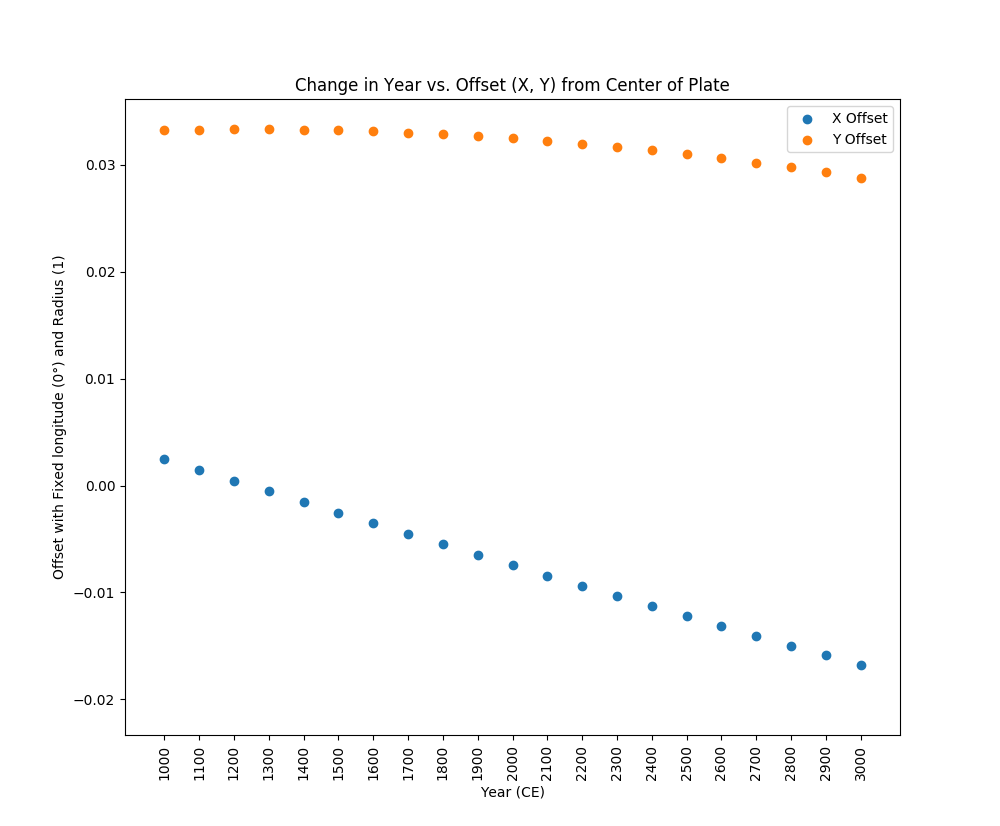
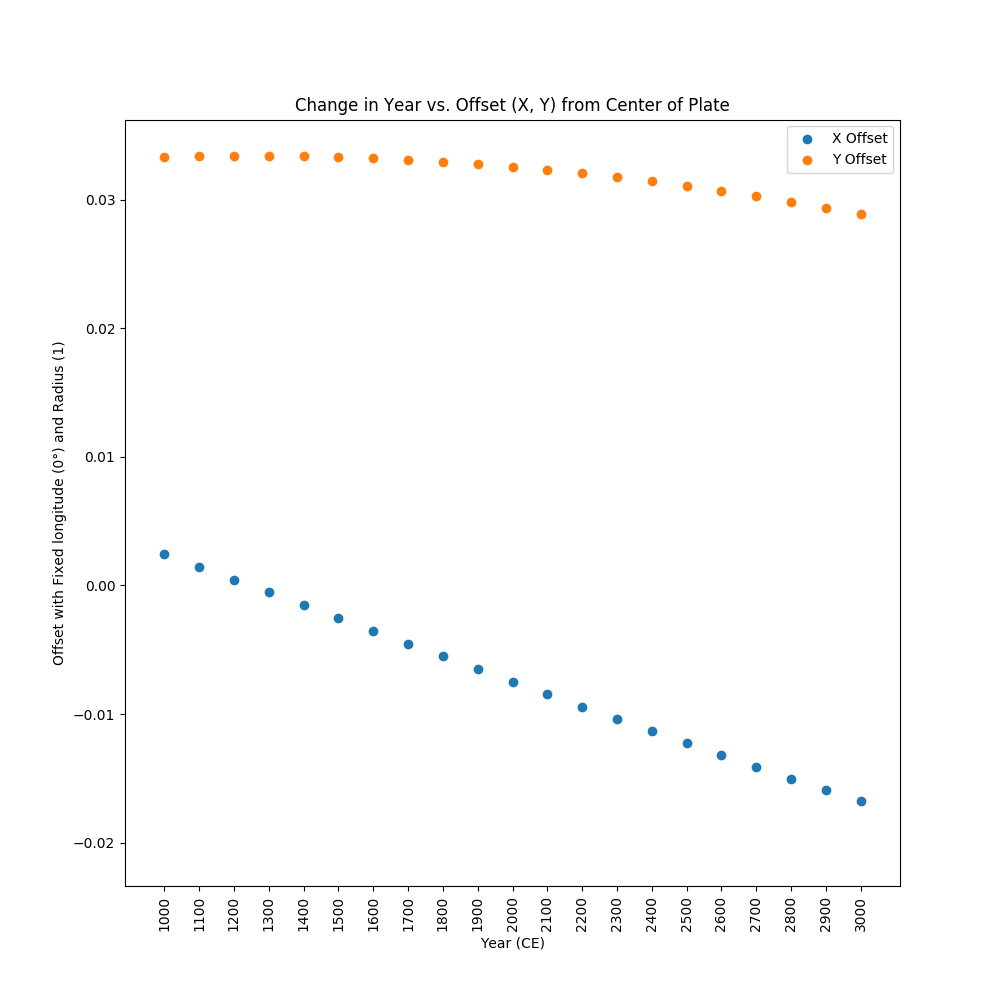
determine eccentricity based on julian time

diff --git a/page_x_astrolabe/calculate_eccentric_calendar_offset.py b/page_x_astrolabe/calculate_eccentric_calendar_offset.py
@@ -7,12 +7,16 @@ import matplotlib.pyplot as plt
 
 def determineApside(julianTime):
 	# Define the line of apsides (longitude of aphelion and perihelion)
-	perihelion = 102.937348 + (1.7195269*julianTime) + (0.00045962 * (julianTime**2)) + (0.000000499 * (julianTime**3))
+	perihelion = 102.937348 + (1.7195269 * julianTime) + (0.00045962 * (julianTime**2)) + (0.000000499 * (julianTime**3))
 	aphelion = perihelion + 180
 	print("Perihelion = {0:3f}°".format(perihelion))
 	print("Aphelion   = {0:3f}°".format(aphelion))
-
 	return perihelion, aphelion
+
+def determineEccentrictiyOverTime(julianTime):
+	# Determine the change in eccentricity over time
+	eccentricityAtJulianYear = 0.01670862 - (0.000042037 * julianTime) - (0.0000001236 * (julianTime**2)) + (0.00000000004 * (julianTime**3))
+	return eccentricityAtJulianYear
 
 def determineAngularDistanceEquinox(julianTime, longitude, aphelion):
 	# Mean Anomaly of January 0
@@ -30,20 +34,39 @@ def determineAngularDistanceEquinox(julianTime, longitude, aphelion):
 
 def offsetfromCenterOfPlate(radiusOfPlate, perihelion):
 	# offset from the center of the plate
-	eccentricty = 0.01667061
+	eccentricty = determineEccentrictiyOverTime(julianTime) # 0.01667061
 	offset_eccentricity = 2 *  eccentricty * radiusOfPlate
 	x_delta = offset_eccentricity * math.cos(np.deg2rad(perihelion))
 	y_delta = offset_eccentricity * math.sin(np.deg2rad(perihelion))
-	print("\nX offset with radius of {0} = {1:4f}".format(radius_of_plate, x_delta))
+	print("Offset due to Eccentricity with radius of {0} = {1:4f}".format(radius_of_plate, offset_eccentricity))
+	print("X offset with radius of {0} = {1:4f}".format(radius_of_plate, x_delta))
 	print("Y offset with radius of {0} = {1:4f}\n".format(radius_of_plate, y_delta))
-
 	return x_delta, y_delta
 
-def plotYearToOffset():
+def plotEccentricityOverTime(offset_year):
+	# change in eccentricity over time (time vs. eccentricity)
+	fig = plt.figure(figsize=(10,10), dpi=100)
+	ax = fig.subplots()
+	x_year_range = np.arange(2000-offset_year, 2000+offset_year+1, 100)
+
+	y_eccentricity = []
+	for year in x_year_range:
+		julianTime = (year - 2000) / 100 # Calculate the time in Julian centuries from J2000.0
+		e = determineEccentrictiyOverTime(julianTime)
+		y_eccentricity.append(e)
+
+	plt.xticks(x_year_range, rotation=90)
+	plt.title("Change in Year vs. Eccentricity")
+	plt.xlabel("Year (CE)")
+	plt.ylabel("Eccentricity")
+	plt.scatter(x_year_range, y_eccentricity)
+	plt.show()
+	fig.savefig('eccentric_calendar_change_in_year_verus_eccentricity.png', dpi=fig.dpi)
+
+def plotYearToOffset(offset_year):
 	# plot Year vs. Offset for fixed longitude (0°) for radius 1
 	fig = plt.figure(figsize=(10,10), dpi=100)
 	ax = fig.subplots()
-	offset_year = 1000 # (+/-) x years
 	x_year_range = np.arange(2000-offset_year, 2000+offset_year+1, 100)
 
 	y_offset_x = []
@@ -94,7 +117,7 @@ if __name__ == '__main__':
 	yearToCalculate = 2022 # Year (YYYY) in CE
 	longitude = -105.2705 # longitude of observation (-105.2705° for Boulder, 0° for Greenwich)
 	radius_of_plate = 1
-	plotGraphs = False
+	plotGraphs = True
 
 	# Calculate the time in Julian centuries from J2000.0
 	julianTime = (yearToCalculate - 2000) / 100
@@ -104,5 +127,7 @@ if __name__ == '__main__':
 
 	# Plot how the Longitude and Year change the Offset and Apside
 	if plotGraphs:
-		plotYearToOffset()
+		offset_year = 1000 # (+/-) x years
+		plotEccentricityOverTime(offset_year)
+		plotYearToOffset(offset_year)
 		plotLongitudeToAngularDistance()

diff --git a/README.md b/README.md
@@ -107,7 +107,8 @@ Line of Apside relative to Vernal Equinox for Longitude -105.2705° = -79.652587
 X offset with radius of 1 = -0.007679
 Y offset with radius of 1 = 0.032445
 ```
-
+_How Changing the Year Changes Eccentricity_
+![change_in_year_eccentricity+png](https://github.com/cyschneck/History-Survival-Guide/blob/master/page_x_astrolabe/eccentric_calendar_change_in_year_verus_eccentricity.png)
 _How Changing the Year Changes the Offset (X, Y)_
 ![change_in_year_offset+png](https://github.com/cyschneck/History-Survival-Guide/blob/master/page_x_astrolabe/eccentric_calendar_change_in_year_verus_offset.png)
 _How Changing the Longitude Changes the Angular Distance to the Vernal Equinox_
